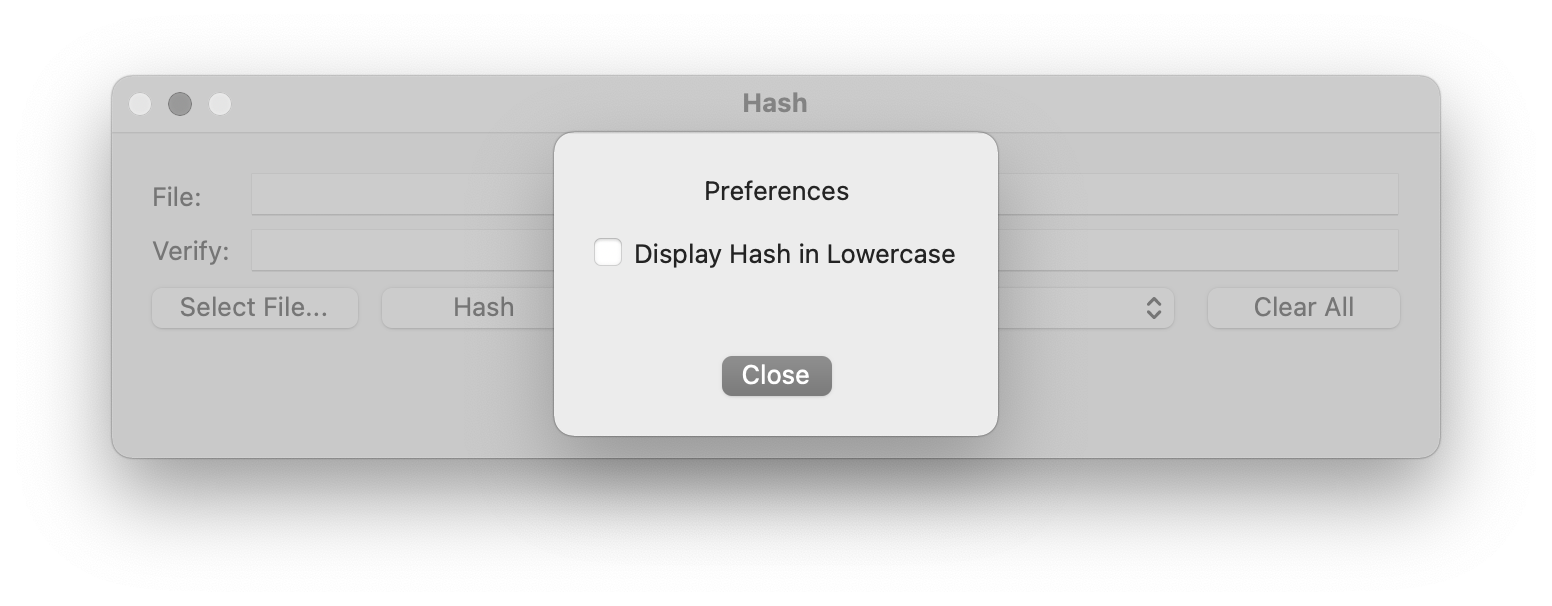
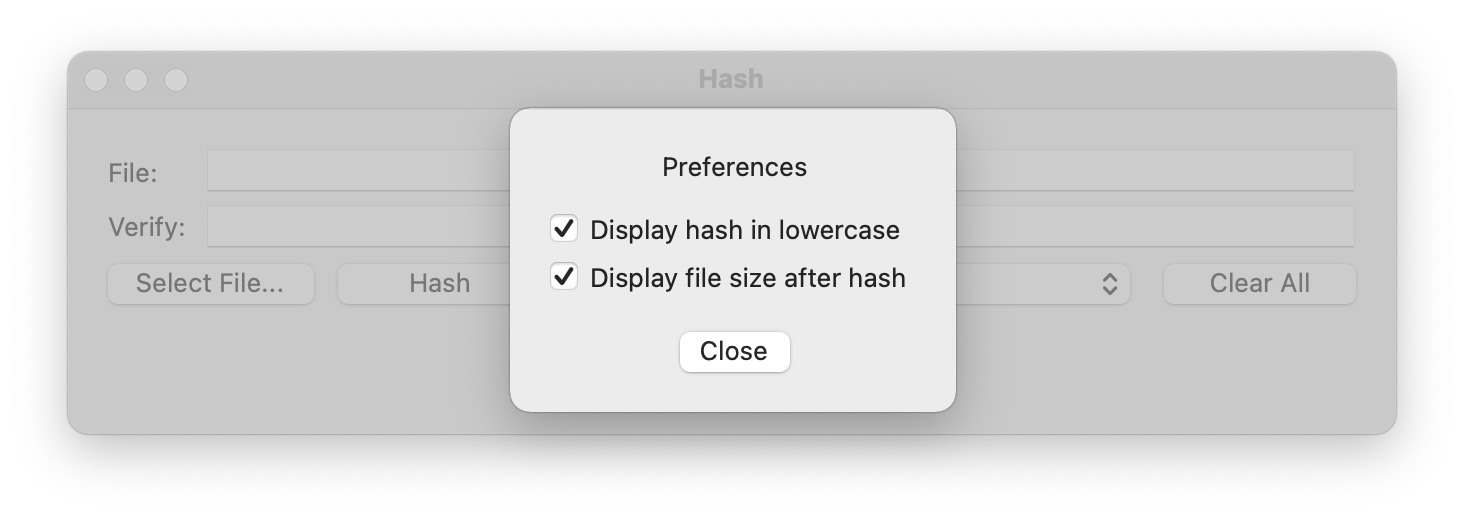
update to BLAKE3 1.1.0; add support for showing the file size after the hash

diff --git a/Docs/Hash.help/Contents/Resources/en.lproj/user_guide.html b/Docs/Hash.help/Contents/Resources/en.lproj/user_guide.html
@@ -99,9 +99,15 @@ the 'Preferences...' menu item in the 'Hash' menu:</a></p>
          width="60%" height="60%" />
 </center>
 
-If the "Display hash in lowercase" checkbox is clicked the calculated
+<ul>
+<li>If the "Display hash in lowercase" checkbox is clicked the calculated
 hash for the specified file is shown using lower case letters.  The
-default is to use upper case letters.
+default is to use upper case letters.</li>
+
+<li>If the "Display file size after hash" checkbox is clicked the specified 
+file's size in bytes is shown in parentheses after the calculated hash.  
+The default is omit the file size.</li>
+</ul>
 
 </body>
 </html>

diff --git a/Docs/Hash.help/Contents/Resources/en.lproj/history.html b/Docs/Hash.help/Contents/Resources/en.lproj/history.html
@@ -23,8 +23,9 @@
         </tr>
         </thead>
         <tbody>
+            <tr><td>1.1.15</td><td>Update to BLAKE3 v.1.1.0</td></tr>
             <tr><td>1.1.14</td><td>Update help pages</td></tr>
-            <tr><td>1.1.13</td><td>Update to BLAKE3 v.1.0</td></tr>
+            <tr><td>1.1.13</td><td>Update to BLAKE3 v.1.0.0</td></tr>
             <tr><td>1.1.12</td><td>Add basic help support</td></tr>
             <tr><td>1.1.11</td>
                 <td>Update to BLAKE3 v.0.3.8, add LSH (224, 256, 384, 512)</td>

diff --git a/Hash/HashAppController.m b/Hash/HashAppController.m
@@ -28,10 +28,11 @@
     v. 1.1.8  (11/27/2020) - Add support for BLAKE3
     v. 1.1.9  (05/22/2021) - Add preference pane
     v. 1.1.10 (05/26/2021) - Add support for LSH
- 
+    v. 1.1.11 (10/24/2021) - Add support for showing the file size
+
     Based on: http://www.insanelymac.com/forum/topic/91735-a-full-cocoaxcodeinterface-builder-tutorial/
     
-    Copyright (c) 2014-2020 Sriranga R. Veeraraghavan <ranga@calalum.org>
+    Copyright (c) 2014-2021 Sriranga R. Veeraraghavan <ranga@calalum.org>
  
     Permission is hereby granted, free of charge, to any person obtaining
     a copy of this software and associated documentation files (the "Software"),
@@ -63,6 +64,7 @@
 
 NSString *gAppGroup = @"CLN8R9E6QM.org.calalum.ranga.HashGroup";
 NSString *gPrefLowercase = @"lowercase";
+NSString *gPrefShowSize = @"showsize";
 
 @implementation HashAppController
 
@@ -99,6 +101,7 @@ NSString *gPrefLowercase = @"lowercase";
     hashDefaults = [[NSUserDefaults alloc] initWithSuiteName: gAppGroup];
     
     prefLowercase = [hashDefaults boolForKey: gPrefLowercase];
+    prefShowSize = [hashDefaults boolForKey: gPrefShowSize];
 }
 
 /*
@@ -145,7 +148,10 @@ NSString *gPrefLowercase = @"lowercase";
     [self setMessage: @""];
 }
 
-/* actionToggleLowerCaseCheckbox - toggle the state of the lower case checkbox */
+/*
+   actionToggleLowerCaseCheckbox - toggle the state of the lower case
+                                   checkbox
+ */
 
 -(IBAction)actionToggleLowerCaseCheckbox:(id)sender
 {
@@ -156,6 +162,22 @@ NSString *gPrefLowercase = @"lowercase";
     [lowerCaseCheckBox setState: (prefLowercase ?
                                   NSControlStateValueOn :
                                   NSControlStateValueOff)];
+}
+
+/*
+   actionToggleShowSizeCheckbox - toggle the state of the show size
+                                  checkbox
+ */
+
+-(IBAction)actionToggleShowSizeCheckbox:(id)sender
+{
+    prefShowSize = !prefShowSize;
+    
+    [hashDefaults setBool:prefShowSize forKey:gPrefShowSize];
+    
+    [showSizeCheckBox setState: (prefShowSize ?
+                                NSControlStateValueOn :
+                                NSControlStateValueOff)];
 }
 
 /*
@@ -435,8 +457,10 @@ NSString *gPrefLowercase = @"lowercase";
 {
     NSString *verifyHash = nil;
     NSString *hashResult = nil;
+    NSString *fileSize = nil;
     NSWindow *sender = nil;
-
+    NSMutableString *resultString = nil;
+    
     // if the dictionary is nil or contains no elements,
     // some problem occured while calculating the hash
 
@@ -459,13 +483,36 @@ NSString *gPrefLowercase = @"lowercase";
             break;
         }
 
-        // display the calculated hash
+        /*
+            display the calculated hash with the file's size
+            (when requested through the prefs)
+         */
 
-        [self setMessage: hashResult
-                 comment: nil
-                   error: NO
-               monospace: YES];
-
+        resultString = [NSMutableString stringWithString: hashResult];
+        if (resultString != nil)
+        {
+            if (prefShowSize == TRUE)
+            {
+                fileSize = [dict objectForKey: keyFileSize];
+                if (fileSize != nil)
+                {
+                    [resultString appendFormat: @" (%@ B)", fileSize];
+                }
+            }
+            
+            [self setMessage: resultString
+                     comment: nil
+                       error: NO
+                   monospace: YES];
+        }
+        else
+        {
+            [self setMessage: hashResult
+                     comment: nil
+                       error: NO
+                   monospace: YES];
+        }
+        
         /* 
             if verification was requested, verify if the hash matches the
             specified verification hash; use a case insensitive search in

diff --git a/Hash/HashOperation.m b/Hash/HashOperation.m
@@ -17,6 +17,7 @@
     v. 1.1.1 (09/30/2019) - Add support for SHA1 collision detection
     v. 1.1.2 (11/27/2020) - Add support for SHAKE128, SHAKE256
     v. 1.1.3 (11/27/2020) - Add support for BLAKE3
+    v. 1.1.4 (10/24/2021) - Add support for showing the file size
 
     Based on: http://www.joel.lopes-da-silva.com/2010/09/07/compute-md5-or-sha-hash-of-large-file-efficiently-on-ios-and-mac-os-x/
               http://www.cimgf.com/2008/02/23/nsoperation-example/
@@ -198,7 +199,8 @@
         NSError *error = nil;
         NSDictionary *attribs = nil;
         unsigned long long fileSize = -1;
-
+        NSString *fileSizeStr = nil;
+        
         /* the digest */
 
         unsigned char *digest = NULL;
@@ -278,6 +280,8 @@
                        attributesOfItemAtPath:filePath error:&error];
             if (attribs != nil) {
                 fileSize = [attribs fileSize];
+                fileSizeStr = [NSString stringWithFormat: @"%llu",
+                                                          fileSize];
             }
 
             // set the digest length for the specified hash
@@ -1104,6 +1108,7 @@
                         [NSDictionary dictionaryWithObjectsAndKeys:
                                     hashResult, keyHashResult,
                                     sender, keySender,
+                                    fileSizeStr, keyFileSize,
                                     nil]
                                      waitUntilDone: YES];
         }

diff --git a/Hash/HashAppController.h b/Hash/HashAppController.h
@@ -10,9 +10,10 @@
     v. 1.0.3 (08/13/2019) - Add method to clear verification fields
     v. 1.0.4 (11/12/2020) - Add support for checking if a verification hash
                             is the correct length
-    v. 1.0.5 (05/22/2021)  - Add preference pane
-
-    Copyright (c) 2014-2020 Sriranga R. Veeraraghavan <ranga@calalum.org>
+    v. 1.0.5 (05/22/2021) - Add preference pane
+    v. 1.0.6 (10/24/2021) - Add support for showing the file size
+ 
+    Copyright (c) 2014-2021 Sriranga R. Veeraraghavan <ranga@calalum.org>
  
     Permission is hereby granted, free of charge, to any person obtaining
     a copy of this software and associated documentation files (the "Software"),
@@ -68,6 +69,7 @@ typedef enum {
     IBOutlet id clearVerifyFieldButton;
     IBOutlet id aboutText;
     IBOutlet id lowerCaseCheckBox;
+    IBOutlet id showSizeCheckBox;
     IBOutlet NSProgressIndicator *hashProgress;
     IBOutlet NSPanel *hashSheet;
     IBOutlet NSPanel *aboutSheet;
@@ -76,6 +78,7 @@ typedef enum {
     NSString *appNameStr;
     NSOperationQueue *hashQueue;
     BOOL prefLowercase;
+    BOOL prefShowSize;
     NSUserDefaults *hashDefaults;
 }
 
@@ -112,6 +115,8 @@ typedef enum {
 -(IBAction)endPrefSheet:(id)sender;
 
 -(IBAction)actionToggleLowerCaseCheckbox:(id)sender;
+
+-(IBAction)actionToggleShowSizeCheckbox:(id)sender;
 
 -(void)hashComplete:(NSDictionary *)dict;
 

diff --git a/Hash/BLAKE3/blake3.c b/Hash/BLAKE3/blake3.c
@@ -340,12 +340,18 @@ INLINE void compress_subtree_to_parent_node(
   uint8_t cv_array[MAX_SIMD_DEGREE_OR_2 * BLAKE3_OUT_LEN];
   size_t num_cvs = blake3_compress_subtree_wide(input, input_len, key,
                                                 chunk_counter, flags, cv_array);
+  assert(num_cvs <= MAX_SIMD_DEGREE_OR_2);
 
   // If MAX_SIMD_DEGREE is greater than 2 and there's enough input,
   // compress_subtree_wide() returns more than 2 chaining values. Condense
   // them into 2 by forming parent nodes repeatedly.
   uint8_t out_array[MAX_SIMD_DEGREE_OR_2 * BLAKE3_OUT_LEN / 2];
-  while (num_cvs > 2) {
+  // The second half of this loop condition is always true, and we just
+  // asserted it above. But GCC can't tell that it's always true, and if NDEBUG
+  // is set on platforms where MAX_SIMD_DEGREE_OR_2 == 2, GCC emits spurious
+  // warnings here. GCC 8.5 is particularly sensitive, so if you're changing
+  // this code, test it against that version.
+  while (num_cvs > 2 && num_cvs <= MAX_SIMD_DEGREE_OR_2) {
     num_cvs =
         compress_parents_parallel(cv_array, num_cvs, key, flags, out_array);
     memcpy(cv_array, out_array, num_cvs * BLAKE3_OUT_LEN);

diff --git a/Hash/HashConstants.m b/Hash/HashConstants.m
@@ -6,12 +6,13 @@
  
     v. 1.0.0 (10/20/2014) - Initial version
     v. 1.0.1 (04/17/2014) - Update to allow background processing of hashes
-    v. 1.1.0 (06/30/2019) - Update default version to 1.1 due to changes to
+    v. 1.0.2 (06/30/2019) - Update default version to 1.1 due to changes to
                             support only MacOSX 10.9+
- 
+    v. 1.0.3 (10/24/2021) - Add support for showing the file size
+
     Based on: https://stackoverflow.com/questions/538996/constants-in-objective-c
  
-    Copyright (c) 2014-2019 Sriranga R. Veeraraghavan <ranga@calalum.org>
+    Copyright (c) 2014, 2019, 2021 Sriranga R. Veeraraghavan <ranga@calalum.org>
  
     Permission is hereby granted, free of charge, to any person obtaining
     a copy of this software and associated documentation files (the "Software"),
@@ -41,3 +42,4 @@ NSString *const defaultHashAppVers = @"1.1";
 NSString *const defaultHashAppBuild = @"1";
 NSString *const keyHashResult = @"hashResult";
 NSString *const keySender = @"sender";
+NSString *const keyFileSize = @"fileSize";

diff --git a/Hash/BLAKE3/blake3_impl.h b/Hash/BLAKE3/blake3_impl.h
@@ -38,6 +38,10 @@ enum blake3_flags {
 #define IS_X86_32
 #endif
 
+#if defined(__aarch64__) || defined(_M_ARM64)
+#define IS_AARCH64
+#endif
+
 #if defined(IS_X86)
 #if defined(_MSC_VER)
 #include <intrin.h>
@@ -45,9 +49,18 @@ enum blake3_flags {
 #include <immintrin.h>
 #endif
 
+#if !defined(BLAKE3_USE_NEON) 
+  // If BLAKE3_USE_NEON not manually set, autodetect based on AArch64ness
+  #if defined(IS_AARCH64)
+    #define BLAKE3_USE_NEON 1
+  #else
+    #define BLAKE3_USE_NEON 0
+  #endif
+#endif
+
 #if defined(IS_X86)
 #define MAX_SIMD_DEGREE 16
-#elif defined(BLAKE3_USE_NEON)
+#elif BLAKE3_USE_NEON == 1
 #define MAX_SIMD_DEGREE 4
 #else
 #define MAX_SIMD_DEGREE 1
@@ -257,7 +270,7 @@ void blake3_hash_many_avx512(const uint8_t *const *inputs, size_t num_inputs,
 #endif
 #endif
 
-#if defined(BLAKE3_USE_NEON)
+#if BLAKE3_USE_NEON == 1
 void blake3_hash_many_neon(const uint8_t *const *inputs, size_t num_inputs,
                            size_t blocks, const uint32_t key[8],
                            uint64_t counter, bool increment_counter,

diff --git a/Hash/HashConstants.h b/Hash/HashConstants.h
@@ -6,10 +6,11 @@
  
     v. 1.0.0 (10/20/2014) - Initial version
     v. 1.0.1 (04/17/2014) - Update to allow background processing of hashes
+    v. 1.0.2 (10/24/2021) - Add support for showing the file size
 
     Based on: https://stackoverflow.com/questions/538996/constants-in-objective-c
 
-    Copyright (c) 2014 Sriranga R. Veeraraghavan <ranga@calalum.org>
+    Copyright (c) 2014, 2021 Sriranga R. Veeraraghavan <ranga@calalum.org>
  
     Permission is hereby granted, free of charge, to any person obtaining
     a copy of this software and associated documentation files (the "Software"),
@@ -42,6 +43,7 @@ FOUNDATION_EXPORT NSString *const defaultHashAppVers;
 FOUNDATION_EXPORT NSString *const defaultHashAppBuild;
 FOUNDATION_EXPORT NSString *const keyHashResult;
 FOUNDATION_EXPORT NSString *const keySender;
+FOUNDATION_EXPORT NSString *const keyFileSize;
 FOUNDATION_EXPORT NSString *const outputLowerCase;
 
 #endif /* Hash_HashConstants_h */

diff --git a/Hash/BLAKE3/blake3_dispatch.c b/Hash/BLAKE3/blake3_dispatch.c
@@ -5,8 +5,15 @@
 #include "blake3_impl.h"
 
 /* srv 2020-11-27 - force portable version */
+
 #ifndef BLAKE3_X86
 #undef IS_X86
+#endif
+
+/* srv 2021-10-23 - force portable version */
+
+#ifdef BLAKE3_USE_NEON
+#undef BLAKE3_USE_NEON
 #endif
 
 #if defined(IS_X86)
@@ -240,7 +247,7 @@ void blake3_hash_many(const uint8_t *const *inputs, size_t num_inputs,
 #endif
 #endif
 
-#if defined(BLAKE3_USE_NEON)
+#if BLAKE3_USE_NEON == 1
   blake3_hash_many_neon(inputs, num_inputs, blocks, key, counter,
                         increment_counter, flags, flags_start, flags_end, out);
   return;
@@ -277,7 +284,7 @@ size_t blake3_simd_degree(void) {
   }
 #endif
 #endif
-#if defined(BLAKE3_USE_NEON)
+#if BLAKE3_USE_NEON == 1
   return 4;
 #endif
   return 1;

diff --git a/Hash/BLAKE3/blake3.h b/Hash/BLAKE3/blake3.h
@@ -8,7 +8,7 @@
 extern "C" {
 #endif
 
-#define BLAKE3_VERSION_STRING "1.0.0"
+#define BLAKE3_VERSION_STRING "1.1.0"
 #define BLAKE3_KEY_LEN 32
 #define BLAKE3_OUT_LEN 32
 #define BLAKE3_BLOCK_LEN 64
